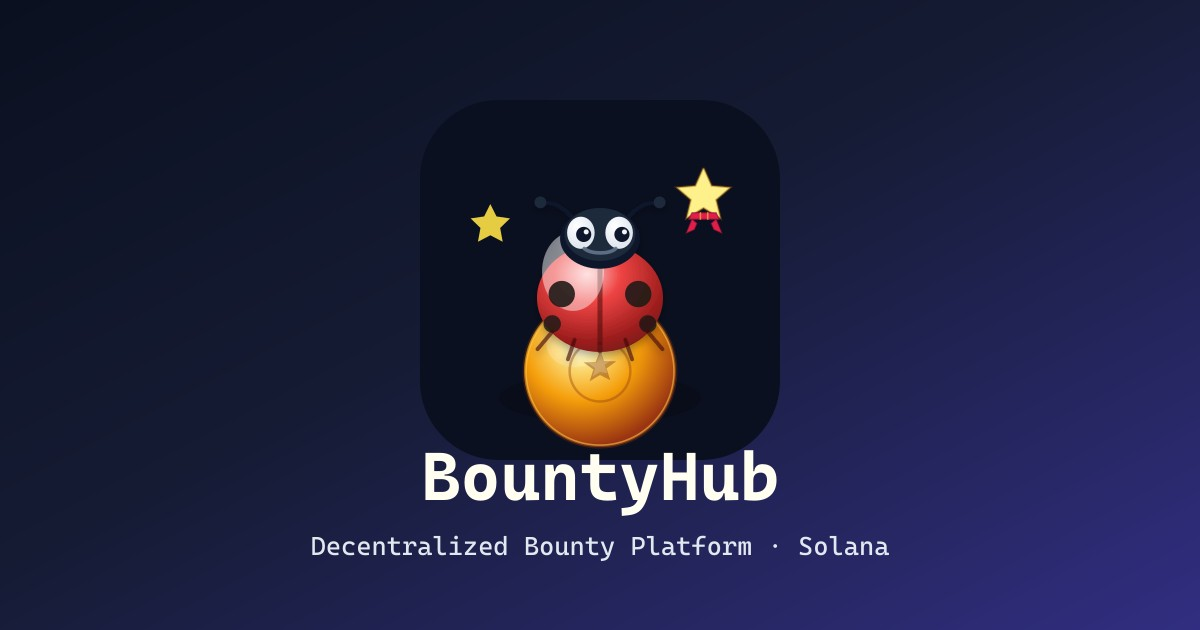
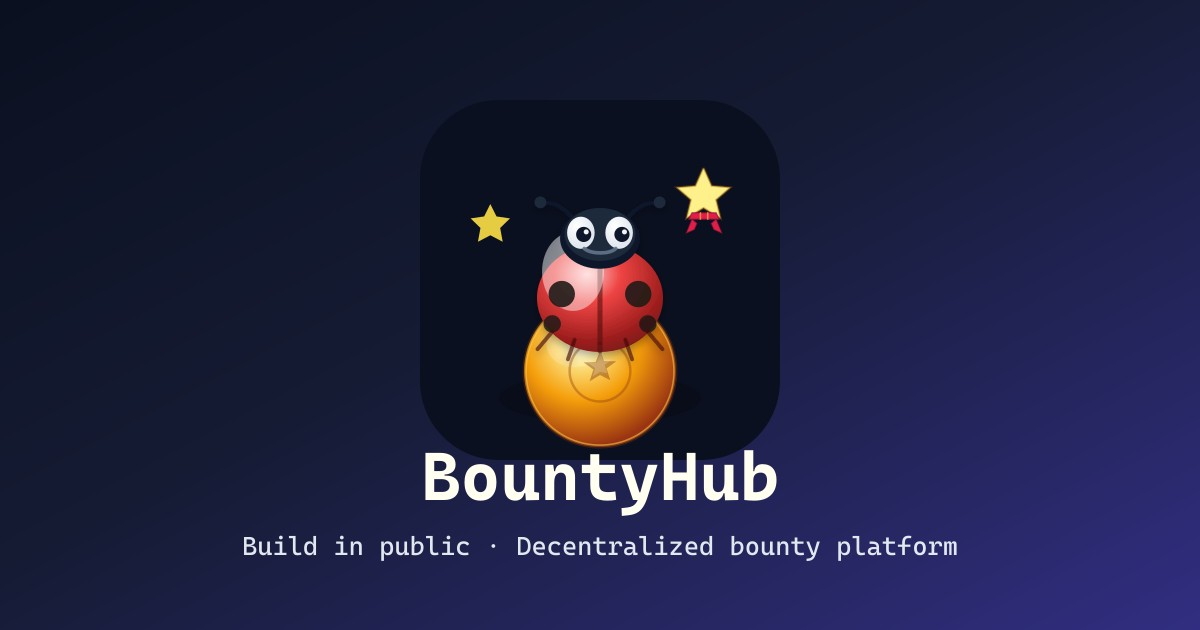
Update tagline and regenerate brand assets
Use combined slogan on desktop splash and in og/social SVGs; refresh exported JPG/PNG rasters.

Made-with: Cursor

Changed region(s): [[0.185, 0.8444, 0.8017, 0.9048]]

diff --git a/src/pages/DesktopHome.tsx b/src/pages/DesktopHome.tsx
@@ -170,8 +170,8 @@ export default function DesktopHome() {
             <span className="bg-gradient-to-r from-cyan-300 via-violet-300 to-cyan-300 bg-clip-text text-lg font-bold tracking-tight text-transparent">
               BountyHub
             </span>
-            <p className="text-xs text-neutral-500 dark:text-neutral-400 text-center leading-tight">
-              Ask. Bounty. Earn.
+            <p className="text-xs text-neutral-500 dark:text-neutral-400 text-center leading-tight max-w-[16rem]">
+              Build in public · Decentralized bounty platform
             </p>
           </div>
         </div>

diff --git a/src/components/DesktopHomeGate.tsx b/src/components/DesktopHomeGate.tsx
@@ -98,7 +98,9 @@ export function DesktopHomeGate() {
           <img src={logoUrl} alt="" width={72} height={72} />
         </div>
         <h1 className="desktop-splash__name">BountyHub</h1>
-        <p className="desktop-splash__tagline">Ask. Bounty. Earn.</p>
+        <p className="desktop-splash__tagline">
+          Build in public · Decentralized bounty platform
+        </p>
       </div>
     </main>
   )
